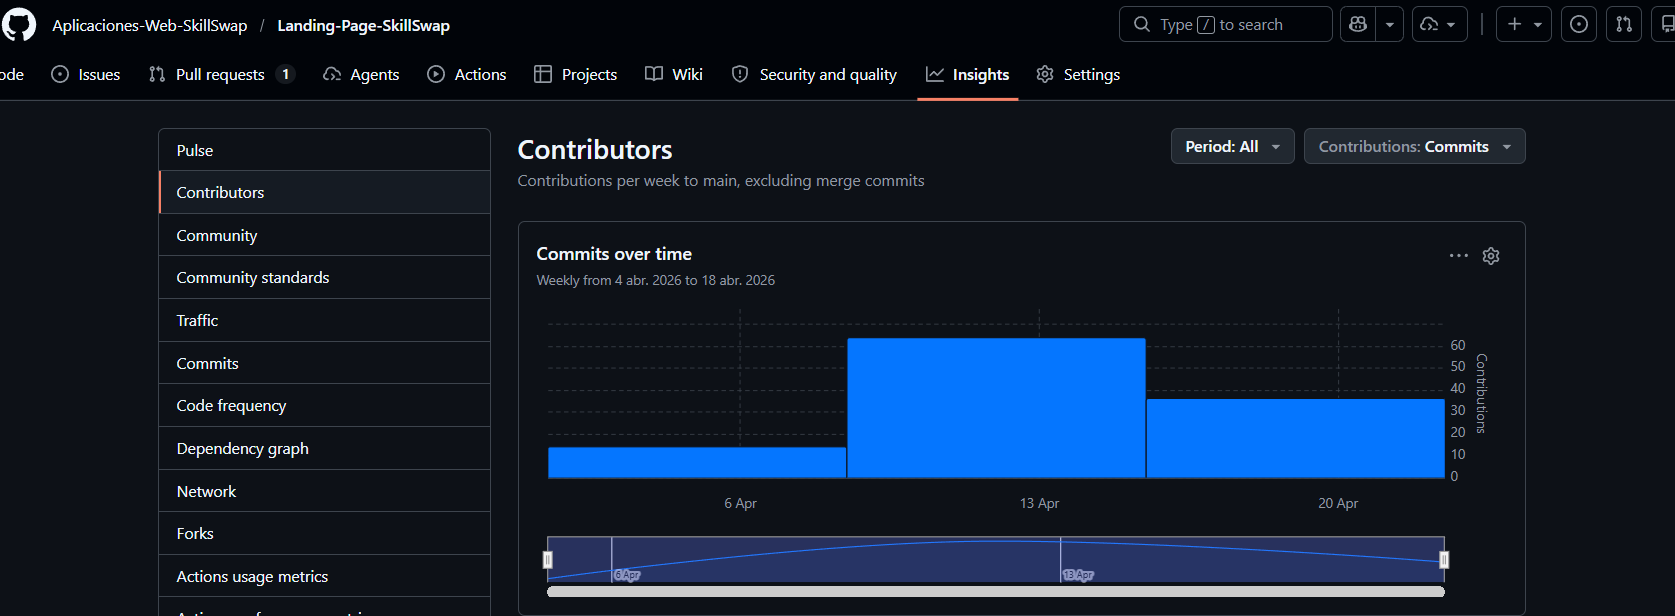
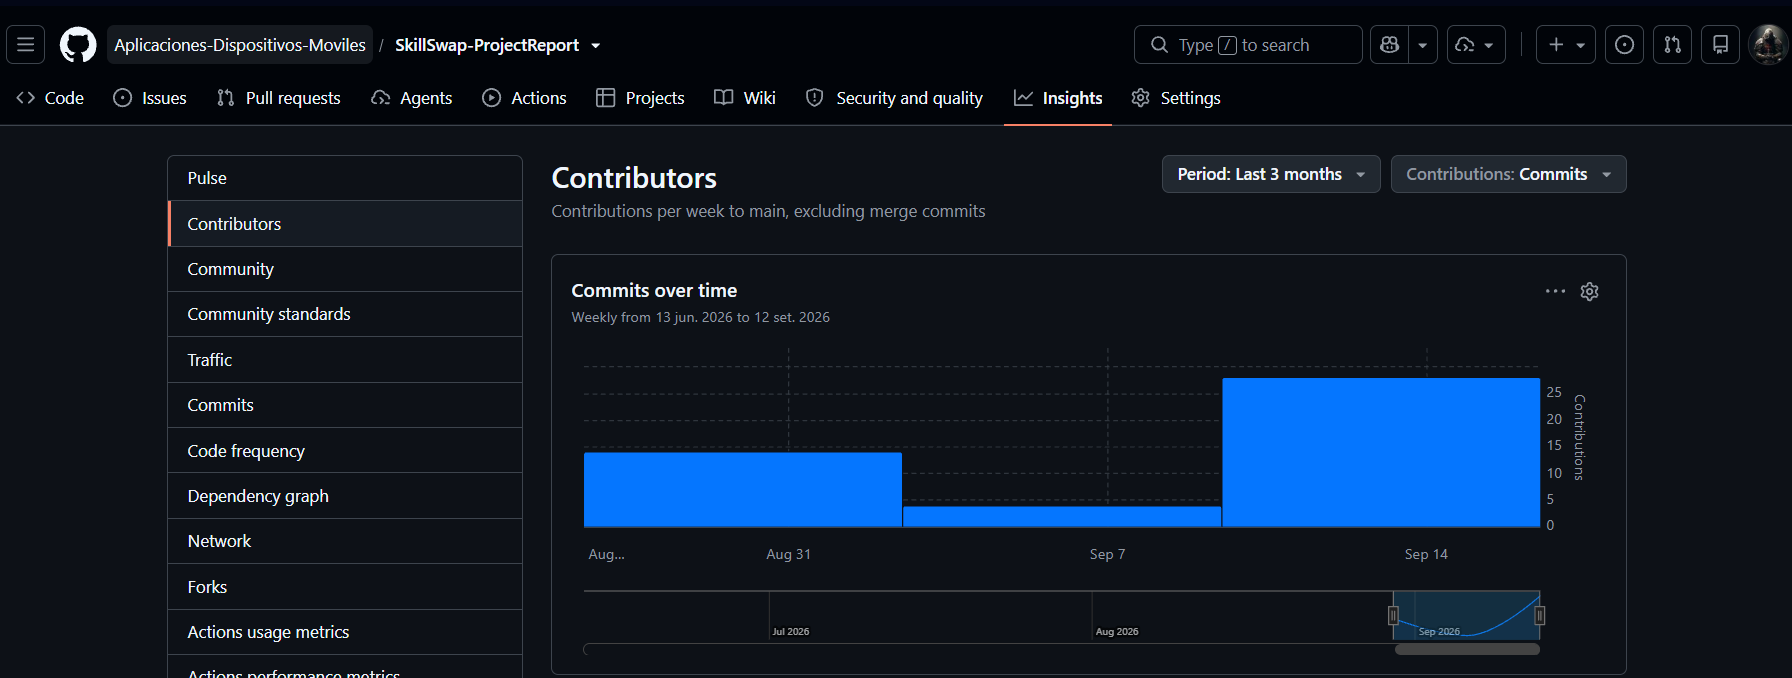
docs: add collaboration insights and teamwork evidence

diff --git a/upc-pre-02-1acc0238-4948-Innovify-report-avn1.md b/upc-pre-02-1acc0238-4948-Innovify-report-avn1.md
@@ -70,9 +70,23 @@ En esta sección se indica el URL del repositorio utilizado para la elaboración
 
 ### AV1
 
-Durante el desarrollo de la entrega AV1, el equipo distribuyó la elaboración del informe asignando capítulos y secciones específicas a cada integrante según sus áreas de responsabilidad. Cada miembro realizó sus aportes directamente en el repositorio de GitHub mediante commits en ramas individuales, siguiendo la convención de Conventional Commits y GitFlow. Todos los integrantes participaron activamente en la redacción de secciones del informe en formato Markdown, asegurando coherencia y calidad en el contenido entregado.
+Durante el desarrollo de la entrega AV1, el equipo distribuyó la elaboración del informe asignando capítulos y secciones específicas a cada integrante según sus áreas de responsabilidad. Cada miembro realizó sus aportes directamente en el repositorio de GitHub mediante commits en ramas individuales, siguiendo la convención de Conventional Commits y GitFlow, integrando los cambios mediante Pull Requests hacia la rama `develop`. Todos los integrantes participaron activamente en la redacción de secciones del informe en formato Markdown, asegurando coherencia y calidad en el contenido entregado.
 
-*(Nota: Insertar aquí las capturas de los analíticos de colaboración, branches y commits de GitHub correspondientes al avance 1).*
+A continuación, se presentan las capturas de los analíticos de colaboración del repositorio del informe:
+
+<figure style="text-align: center; margin-bottom: 40px;">
+  <img src="public/assets/images-doc/PR1.png" alt="Analíticos de colaboración - Project Report" width="800">
+  <figcaption style="margin-top: 10px;">
+    <em>Figura 1. Gráfico de contribuciones al repositorio del Project Report durante AV1. Se evidencia la participación de todos los integrantes del equipo mediante commits realizados en el período correspondiente.</em>
+  </figcaption>
+</figure>
+
+<figure style="text-align: center; margin-bottom: 40px;">
+  <img src="public/assets/images-doc/PR2.png" alt="Historial de commits - Project Report" width="800">
+  <figcaption style="margin-top: 10px;">
+    <em>Figura 2. Historial de commits en el repositorio del Project Report, evidenciando los aportes individuales de cada miembro con sus respectivos mensajes bajo la convención de Conventional Commits.</em>
+  </figcaption>
+</figure>
 
 ---
 
